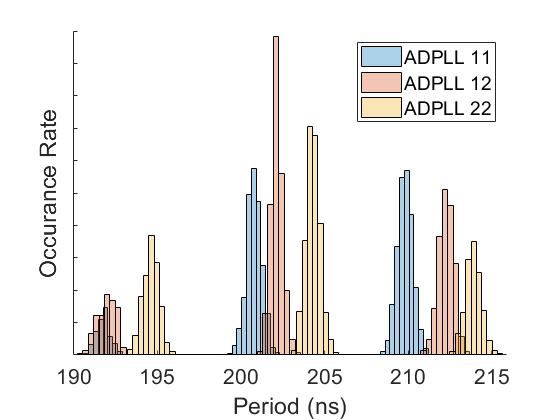
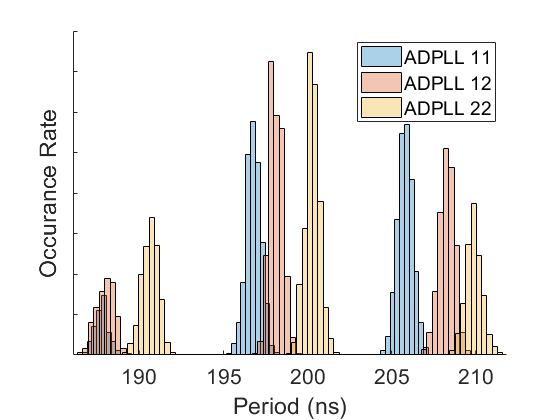
paper measurements and reword finished

diff --git a/conf_paper/paper.tex b/conf_paper/paper.tex
@@ -20,10 +20,10 @@
 
 \author{\IEEEauthorblockN{C. Dooley, E. Blokhina, B. Mulkeen}
     \IEEEauthorblockA{\textit{School of Electrical \& Electronic Engineering, University College Dublin}
+    	\vspace{-1.2cm}
 	}
 }
 \maketitle
-\vspace{-4.5cm}
 \begin{abstract}
     This paper introduces and compares the implementation of a number of FPGA based ADPLL network prototyping architectures. Comparison is then made between the expected performance and role of each method as a development tool.
 \end{abstract}
@@ -130,14 +130,14 @@ The first columns of the table relate to the cycle-to-cycle jitter of the system
                 &&PLL 11&PLL 12&PLL 22&PLL 11&PLL 12&PLL 22\T\\
                 \hline
                 \multicolumn{2}{|l|}{Osc 1, PDET A}&-&-&-&-&-&-\T\\
-                \multicolumn{2}{|r|}{Free PLLs} &1.4377 &1.4714&1.4217   &6.1910&6.3667&6.8052 \T\\
-                \multicolumn{2}{|r|}{Uni-dir.}  &0.91589&1.0993&1.0875   &8.3619&8.9768&10.974 \T\\
-                \multicolumn{2}{|r|}{Bi-dir.}   &1.0470 &1.0979&1.0306   &24.998&33.767&33.204 \T\\
+                \multicolumn{2}{|r|}{Free PLLs} &1.4377 &1.4714&1.4217  &6.1910&6.3667&6.8052 \T\\
+                \multicolumn{2}{|r|}{Uni-dir.}  &0.91589&1.0993&1.0875  &8.3619&8.9768&10.974 \T\\
+                \multicolumn{2}{|r|}{Bi-dir.}   &1.0470 &1.0979&1.0306  &24.998&33.767&33.204 \T\\
                 \hline
                 \multicolumn{2}{|l|}{Osc 2, PDET A}&-&-&-&-&-&-\T\\
-                \multicolumn{2}{|r|}{Free PLLs}&&& 0&&& \T\\
-                \multicolumn{2}{|r|}{Uni-dir.}&&& 0&&& \T\\
-                \multicolumn{2}{|r|}{Bi-dir.}&&& 0&&& \T\\
+                \multicolumn{2}{|r|}{Free PLLs} &78.458&74.025&67.779  &146.09&143.70&142.03 \T\\
+                \multicolumn{2}{|r|}{Uni-dir.}  &78.428&72.646&65.665  &146.23&298.49&200.10 \T\\
+                \multicolumn{2}{|r|}{Bi-dir.}   &78.436&73.827&67.648  &235.73&497.60&311.28 \T\\
                 \hline
                 \multicolumn{2}{|l|}{Osc 2, PDET B}&-&-&-&-&-&-\T\\
                 \multicolumn{2}{|r|}{Free PLLs} &7.8090&7.8827&6.6272   &17.336&21.151&24.302 \T\\
@@ -152,8 +152,12 @@ The first columns of the table relate to the cycle-to-cycle jitter of the system
     \end{center}
 \vspace{-0.5cm}
 \end{table}
-From the table it is apparent that the combination of the inverter chain DCO and the FPGA clock driven phase detector is an ill-advised choice, as the jitter present in the system is several orders of magnitude worse than either other situation. In this system, the FPGA clock is at 258 MHz, the maximum possible, thus giving a detection resolution of 3.875 nanoseconds. This is 3.5 times greater than the period resolution of approximately 1.2 nano second period resolution of the oscillator, and requires the gains of the PI filter to be increased fourfold in order to respond appropriately to the error detected. The problems of relatively inaccurate detection and increased gains combine to produce a system that is only able to achieve poor locking performance.
-Both other combinations work well however, delivering a level of jitter that is both low yet allows an indication of how impactful variations in architecture or control parameters are to be seen visually on an oscilloscope.\\
+It is apparently that the combination of the inverter chain DCO and the FPGA clocked phase detector is an ill advised choice, with the system's jitter being an order of magnitude worse than the design using inverter delay based detector. However when the resolution of the detector is then considered, a potential cause for this issue is found. The detector in case two has a resolution of 3.875 nanoseconds in comparison to the 1.2 nanosecond period step of the oscillator, requiring an increase in the loop filter gains. The problems of relatively inaccurate detection and increased gains combine to produce a system that is only able to achieve poor locking performance. In case three then the detector's resolution improves to 0.6 nanoseconds and produces relatively good system performance. This combination does not perform as well as that of case one, but that is attributable to the unrealistic nature of the FPGA clocked design. Both case one and three work well, delivering a level of jitter that is both low yet allows an indication of how impactful variations in architecture or control parameters are to be seen visually on an oscilloscope with appropriate persistence.\\
+
+
+%From the table it is apparent that the combination of the inverter chain DCO and the FPGA clock driven phase detector is an ill-advised choice, as the jitter present in the system is several orders of magnitude worse than either other situation. In order to obtain these measurements a four times divider was inserted into the feedback path, and hence the presence of jitter greater than the period of 200 ns. In this system, the FPGA clock is at 258 MHz, the maximum possible, thus giving a detection resolution of 3.875 nanoseconds. 
+%This is 3.5 times greater than the period resolution of approximately 1.2 nano second period resolution of the oscillator, and requires the gains of the PI filter to be increased fourfold in order to respond appropriately to the error detected. The 
+%Both other combinations work well however, delivering a level of jitter that is both low yet allows an indication of how impactful variations in architecture or control parameters are to be seen visually on an oscilloscope.\\
 
 \begin{figure}[h]%
     \centering
@@ -168,7 +172,7 @@ Both other combinations work well however, delivering a level of jitter that is 
 %   \caption{Distribution of Periods.}
 %   \label{fig:dist2}
 %\end{figure}
-Figure \ref{fig:dists} paints a picture of the unrealistic nature of the FPGA clocked designs as in comparison to the ring based design, each oscillator will have identical intrinsic period steps thus eliminating any jitter that maybe be seen in the system due to misalignment. This effects the suitability of the FPGA clocked designs for the improvement of simulation models, or the examination of how a novel block may impact the behaviour of the network.
+Figure \ref{fig:dists} paints a picture of the unrealistic nature of the FPGA clocked design in comparison to its inverter based counterpart, each oscillator will have identical intrinsic period steps thus eliminating any jitter that maybe be seen in the system due to misalignment. This effects the suitability of the FPGA clocked designs for the improvement of simulation models, or the examination of how a novel block may impact the behaviour of the network.
 \section*{Conclusion}
 An FPGA is a suitable environment for the prototyping of ADPLL networks and can fill a number of roles depending on the designer's requirements. However, the designer should bear in mind the platform's limitations, especially when attempting to use a frequency that is not orders of magnitude lower than the maximum clock available from the FPGA's clock manager. Inverter based and FPGA clocked designs, both have a niche in which they are the preferred option, with the clocked design better suiting replication of an existing design at scaled-down frequencies and the inverter based designs better in the modelling and analysis of ADPLL network behaviour.
 

diff --git a/matlab/a1_3.m b/matlab/a1_3.m
@@ -1,6 +1,6 @@
 for inc = 1:1
-    %filename = char("new/z1a_" + num2str(inc) + ".bin");
-    filename = 'cdcd5.bin';
+    %filename = char("new/des2a_" + num2str(inc) + ".bin");
+    filename = char("scope_41.bin");
     [~,scope_y_data1] = importAgilentBin(filename,1);
     [~,scope_y_data2] = importAgilentBin(filename,2);
     [~,scope_y_data3] = importAgilentBin(filename,3);
@@ -40,7 +40,7 @@ for inc = 1:1
 %     max_4 = max(periods4-mean(periods4));
 %     min_4 = min(periods4-mean(periods4));
 %     p2p_4 = max_4-min_4;
-%     length(init_cross2) - length(init_cross1)
+% 
 %     if length(init_cross2) == length(init_cross1)
 %         TIE_2(inc) = max(abs(init_cross2(1:len)-init_cross1));
 %     elseif length(init_cross2) > length(init_cross1)
@@ -102,9 +102,9 @@ mean_jitter_4_s3 = mean(std_period_4(11:15))
 % 
 figure
 hold on;
-histfit((periods2)*1e9)
-histfit((periods3)*1e9)
-histfit((periods4)*1e9)
+histfit((periods2)*1e9+6)
+histfit((periods3)*1e9+6)
+histfit((periods4)*1e9+6)
 title('')
 xlabel('Period (ns)','fontsize',16);
 ylabel('Occurance Rate','fontsize',16);
